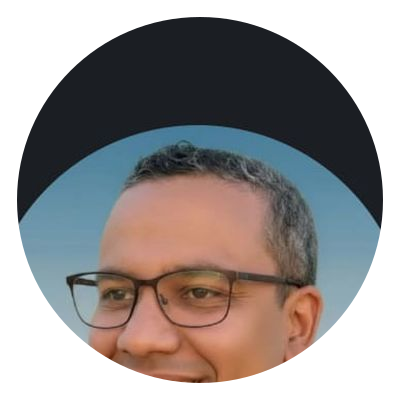
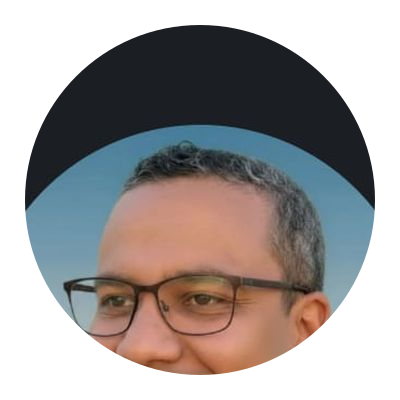
Foto perfil: fundo #0a0a0a exato do site, sem borda
- Fundo da imagem = exato background do portfolio
- Removida borda colorida (blend natural com o site)
- Glow sutil apenas no hover

diff --git a/css/style.css b/css/style.css
@@ -606,14 +606,14 @@ button {
   height: 200px;
   border-radius: 50%;
   object-fit: cover;
-  border: 2px solid rgba(0, 212, 255, 0.3);
-  box-shadow: 0 0 15px rgba(0, 212, 255, 0.15);
+  border: none;
+  box-shadow: none;
   transition: all var(--transicao-media);
 }
 
 .about__photo-img:hover {
   transform: scale(1.05);
-  box-shadow: 0 0 25px rgba(0, 212, 255, 0.3);
+  box-shadow: 0 0 20px rgba(0, 212, 255, 0.2);
 }
 
 .about__text {
